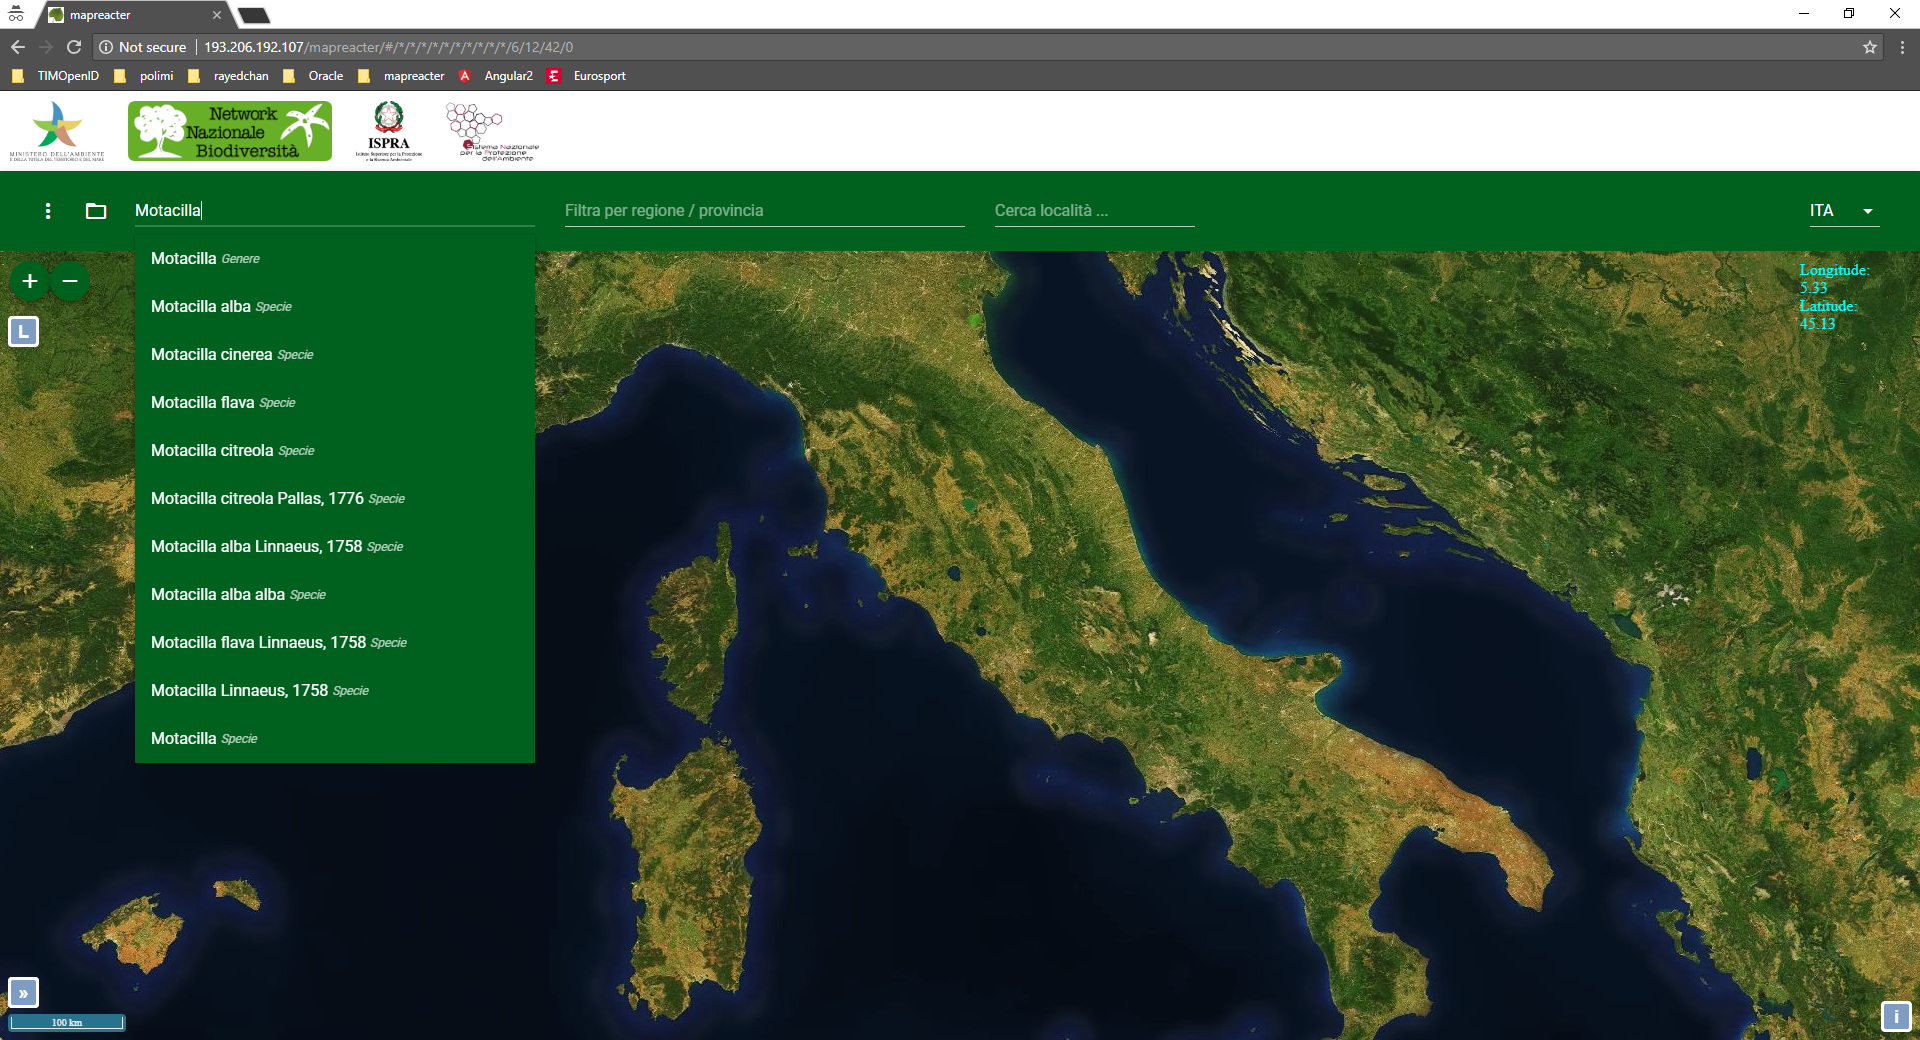
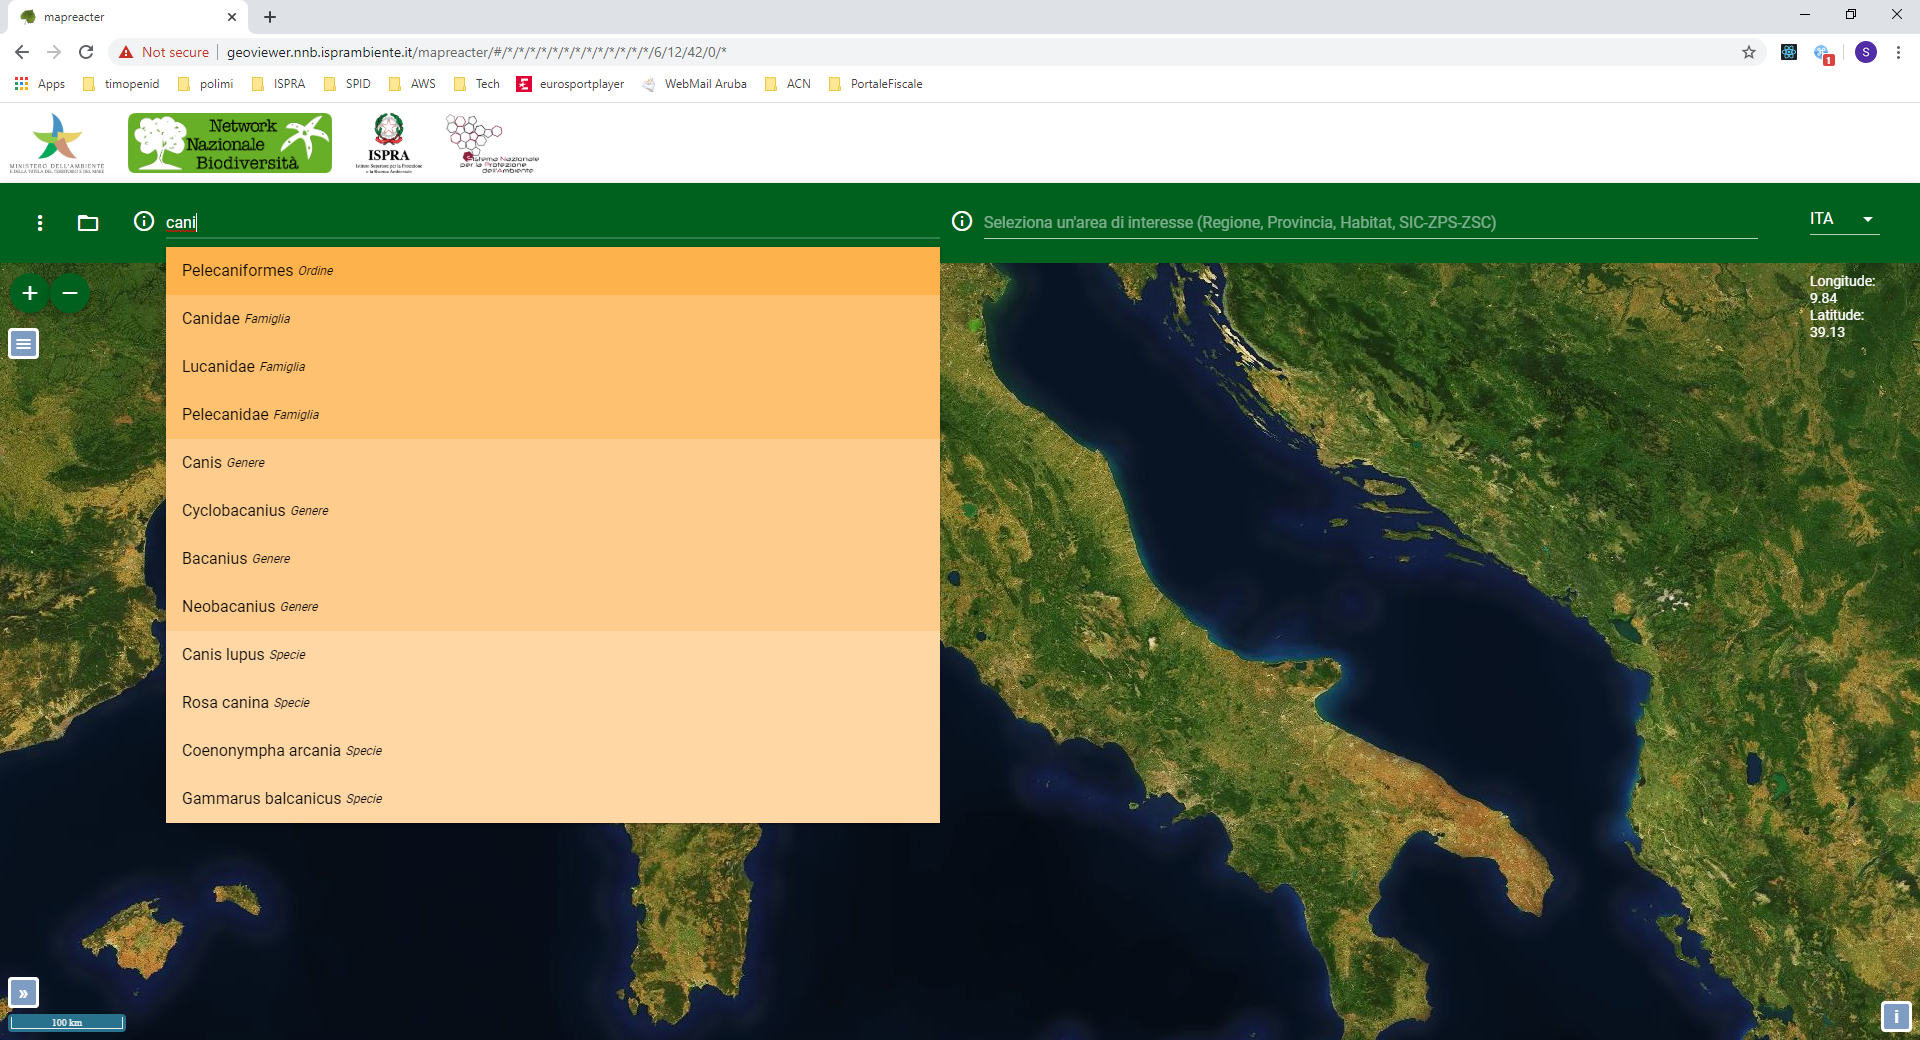
rilascio di marzo

diff --git a/website/translated_docs/it/doc_mapreacter.md b/website/translated_docs/it/doc_mapreacter.md
@@ -2,27 +2,20 @@
 id: doc_mapreacter
 ---
 
-![mapreacter.png](assets/mapreacter.png)
+![mapreacter.png](/mapreacter-help/docs/assets/mapreacter.png)
 
 Questa applicazione consente la visualizzazione su mappa delle osservazioni e delle distribuzioni per l'ordine, la famiglia, il genere o la specie selezionata.
 
-## Filtri:
+## Ricerche:
 
-I filtri (quale ordine, famiglia, genere o specie visualizzare) possono essere passati tramite url oppure tramite la [ricerca tassonomica](doc_search.md) ed il [filtro regione provincia](doc_regionprovince.md).
+Le ricerche tassonomiche (quale ordine, famiglia, genere o specie visualizzare) possono essere impostate tramite url oppure tramite la [ricerca tassonomica](doc_search.md) e circoscritte tramite [filtro Area di Interesse](doc_areainterest.md).
 
 ## url di esempio:
 
 Di seguito alcune url di esempio:
 ```
-http://193.206.192.107/mapreacter/#/Passeriformes
-http://193.206.192.107/mapreacter/#/*/Motacillidae
-http://193.206.192.107/mapreacter/#/*/*/Motacilla
-http://193.206.192.107/mapreacter/#/*/*/*/Motacilla%20flava
+http://geoviewer.nnb.isprambiente.it/mapreacter/#/Carnivora/*/*/*/*/*/*/*/*/*/*/*/*/6/14.86/42/0
+http://geoviewer.nnb.isprambiente.it/mapreacter/#/*/Canidae/*/*/*/*/*/*/*/*/*/*/*/6/14.86/42/0
+http://geoviewer.nnb.isprambiente.it/mapreacter/#/*/*/Canis/*/*/*/*/*/*/*/*/*/*/6/14.86/42/0
+http://geoviewer.nnb.isprambiente.it/mapreacter/#/*/*/*/Canis%20lupus/*/*/*/*/*/*/*/*/*/6/12/42/0
 ```
-
-
-
-
-
-
-

diff --git a/docs/doc_mapreacter.md b/docs/doc_mapreacter.md
@@ -4,25 +4,19 @@ title: mapreacter
 sidebar_label: mapreacter
 ---
 
-![mapreacter.png](assets/mapreacter.png)
+![mapreacter.png](/mapreacter-help/docs/assets/mapreacter.png)
 
 This app allows the visualization on the map of the observations and distributions for the order, the family, the genus or the selected species.
 
-## Filters:
+## Search:
 
-Filters (wich order, family, genus or species to display) can be passed via url or via the [taxonomic search](doc_search.md) and [province filter region](doc_regionprovince.md).
+Search (wich order, family, genus or species to display) can be passed via url or via the [taxonomic search](doc_search.md) and filtered via the [Area of Interest filter](doc_areainterest.md).
 
 ## Here are some example urls:
 
 ```
-http://193.206.192.107/mapreacter/#/Passeriformes
-http://193.206.192.107/mapreacter/#/*/Motacillidae
-http://193.206.192.107/mapreacter/#/*/*/Motacilla
-http://193.206.192.107/mapreacter/#/*/*/*/Motacilla%20flava
+http://geoviewer.nnb.isprambiente.it/mapreacter/#/Carnivora/*/*/*/*/*/*/*/*/*/*/*/*/6/14.86/42/0
+http://geoviewer.nnb.isprambiente.it/mapreacter/#/*/Canidae/*/*/*/*/*/*/*/*/*/*/*/6/14.86/42/0
+http://geoviewer.nnb.isprambiente.it/mapreacter/#/*/*/Canis/*/*/*/*/*/*/*/*/*/*/6/14.86/42/0
+http://geoviewer.nnb.isprambiente.it/mapreacter/#/*/*/*/Canis%20lupus/*/*/*/*/*/*/*/*/*/6/12/42/0
 ```
-
-
-
-
-
-

diff --git a/website/translated_docs/it/doc_toc.md b/website/translated_docs/it/doc_toc.md
@@ -14,10 +14,6 @@ Per ognuno di questi sono possibili le azioni che seguono:
 
 Tramite questi pulsanti il layer selezionato può essere acceso o spento.
 
-## su giù
-
-Tramite questi pulsanti il layer selezionato può essere portato in alto o in basso sulla scala della visibilità.
-
 ## Fit Extent
 
 Questa funzione permette di reimpostare la dimensione della mappa in base al contenuto del layer selezionato.

diff --git a/docs/doc_toc.md b/docs/doc_toc.md
@@ -16,10 +16,6 @@ For each of these the following actions are possible:
 
 With these buttons the selected layer can be switched on or off.
 
-## up / down
-
-Through these buttons the selected layer can be brought up or down on the visibility scale.
-
 ## Fit Extent
 
 This function allows you to reset the map size based on the content of the selected layer.
